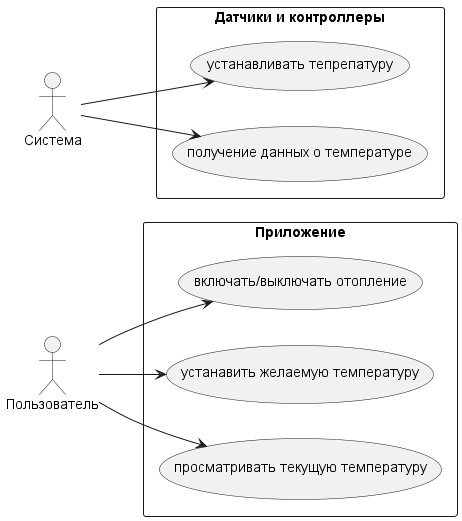
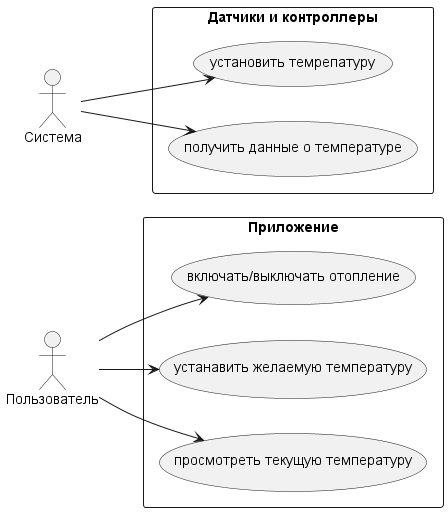
1.1

diff --git a/README.md b/README.md
@@ -2,30 +2,43 @@ _Задание 1.1_
 
 # Текущее состояние
 
-## Функциональность приложения
-
-![Use Cases](./arch/current%20state/Use%20Cases.png)
-
-## Контекст приложения
-
-![C4 диаграмма](./arch/current%20state/Context-Heating_Control_System_Context_Diagram.png)
-
 ## Параметры приложения
+
+Архитектура: Все компоненты системынаходятся в рамках одного приложения.
 
 Язык программирования: Java
 
 База данных: PostgreSQL
 
-Архитектура: Все компоненты системынаходятся в рамках одного приложения.
-
 Взаимодействие: Синхронное, запросы обрабатываются последовательно.
 
 Развертывание: Требует остановки всего приложения.
 
+## Функциональность приложения
+
+![C4 диаграмма](./arch/current%20state/Context-Heating_Control_System_Context_Diagram.png)
+
+## Стратегическое планирование
+
+### As Is
+
+Области деятельности компании в текущий момент ограничены следующими доменами:
+1. Домен: Управление пользователями
+2. Домен: Управление отоплением
+   1. Субдомен: Регистрация контроллеров
+   2. Субдомен: Управление контроллерами
+3. Домен: Мониторинг температуры
+   1. Субдомен: Регистрация датчиков
+   2. Субдомен: Управление данными от датчиков
+
+![Домены](./arch/current%20state/domains as is.png)
+
+### To Be
+
+
+
+## Доп материалы
+
 https://habr.com/ru/companies/usetech/news/676196/
 
 https://github.com/plantuml-stdlib/C4-PlantUML
-
-## Домены компании
-
-![Домены](./arch/current%20state/domains-__.png)
